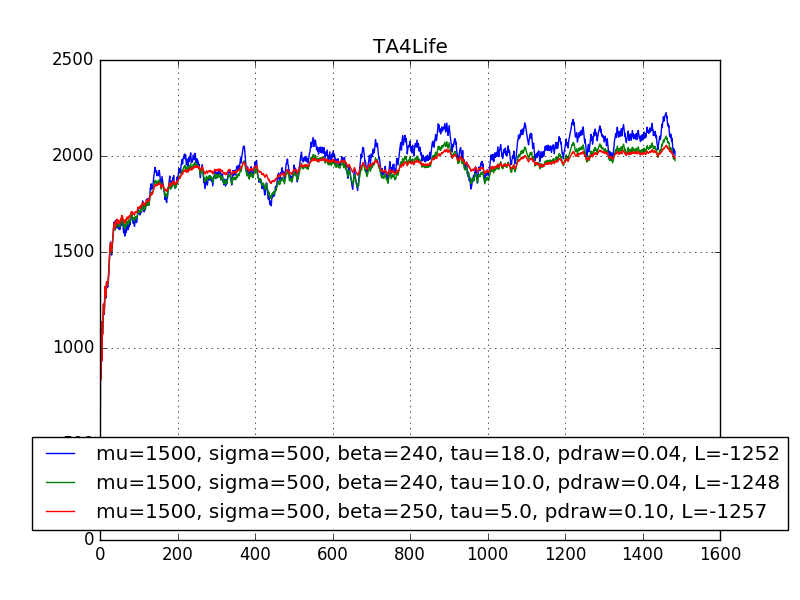
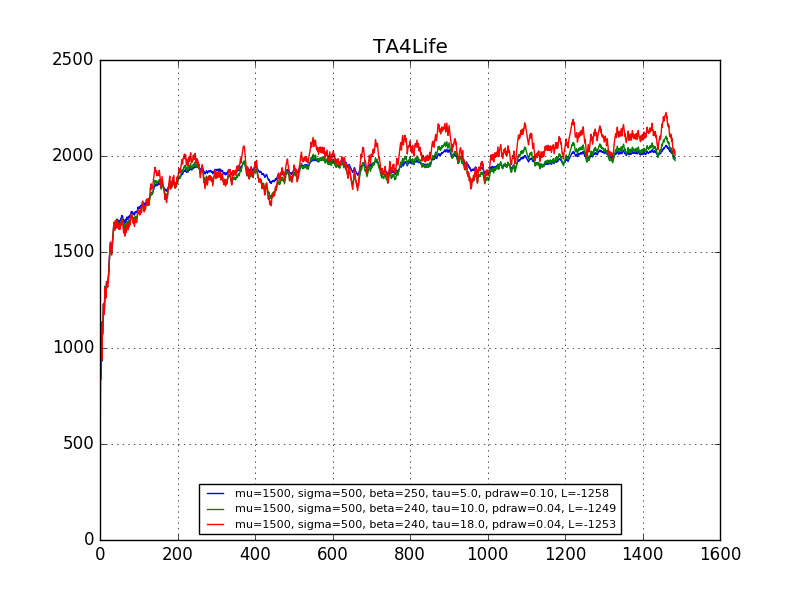
Add plots to exmine distribution of predicted probability of outcome

Changed region(s): [[0.0312, 0.72, 1.0, 0.9], [0.1875, 0.18, 0.8438, 0.33], [0.125, 0.33, 0.1875, 0.39]]

diff --git a/plot_progression.py b/plot_progression.py
@@ -3,6 +3,7 @@ import pytrueskill as ts
 import numpy as np
 import matplotlib.pyplot as plt
 import csv
+import scipy.stats
 
 replays = load_replays('data/replaydumper/replays.csv')
 nplayers = 1 + max(np.max(replays.playerid1), np.max(replays.playerid2))
@@ -17,37 +18,81 @@ with open('data/replaydumper/uniquePlayerIds.csv') as fp:
     for row in csvreader:
         playerAliases[int(row[0])] = row
 
+nPlayersExamine = 5
+figs_progression = [ plt.subplots() for n in range(nPlayersExamine) ]
+fig_filenames = { }
+probabilities = [ [] for n in range(nPlayersExamine) ]
+all_probabilities = []
+aliases = [None for n in range(nPlayersExamine)]
+environments = ( np.array([1500., 500., 250., 5., 0.1]),
+                 np.array([1500., 500., 240., 10., 0.045]),
+                 np.array([1500., 500., 240., 18., 0.045]) )
 
-figs = [ plt.subplots() for n in range(5) ]
-fig_filenames = {  }
-for env in ( np.array([1500., 500., 240., 18., 0.045]),
-             np.array([1500., 500., 240., 10., 0.045]),
-             np.array([1500., 500., 250., 5., 0.1]) ):
+for nenv,env in enumerate(environments):
 
     ratings[:,0] = env[0]
     ratings[:,1] = env[1]
     r1,r2,nGames1,nGames2,L = ts.rate_1vs1(env,pids1,pids2,scores12,ratings)
+    all_probabilities += [L]
 
     finalGameCount = np.zeros(nplayers,dtype=np.int)
     finalGameCount[pids1] = nGames1
     iSorNGames = np.argsort(finalGameCount)[::-1]
-    for (f,ax),PID in zip(figs,iSorNGames):
+    for nplayer,((f1,ax1),PID) in enumerate(zip(figs_progression,iSorNGames)):
         idx1 = pids1==PID
         idx2 = pids2==PID
-        alias = ','.join(playerAliases[PID][1:])
+        aliases[nplayer] = ','.join(playerAliases[PID][1:])
 
         mu = idx1*r1[:,0] + idx2*r2[:,0]
         sigma = idx1*r1[:,1] + idx2*r2[:,1]
         mu = mu[idx1 | idx2]
         sigma = sigma[idx1 | idx2]
         l = L[idx1 | idx2]
+        probabilities[nplayer] += [l]
 
-        ax.plot(np.arange(len(mu)),mu-3*sigma,label='mu=%d, sigma=%d, beta=%d, tau=%.1f, pdraw=%.2f, L=%d' % tuple([x for x in env] + [np.sum(np.log(l))]))
-        ax.set_title(alias)
-        ax.legend(loc='lower center')
-        ax.grid(True)
-        fig_filenames[f] = 'rating_progression_%s.png' % (alias)
+        label = 'mu=%d, sigma=%d, beta=%d, tau=%.1f, pdraw=%.2f, L=%d' % tuple([x for x in env] + [np.sum(np.log(l))])
+        ax1.plot(np.arange(len(mu)),mu-3*sigma,label=label)
+        ax1.set_title(aliases[nplayer])
+        ax1.legend(loc='lower center', prop={'size':8})
+        ax1.grid(True)
+        fig_filenames[f1] = 'rating_progression_%s.png' % (aliases[nplayer])
 
-for f,ax in figs:
+for f,ax in figs_progression:
     f.savefig(fig_filenames[f])
     plt.close(f)
+
+for nplayer,(l,alias) in enumerate(zip(probabilities,aliases)):
+    getlabel = lambda n: 'mu=%d, sigma=%d, beta=%d, tau=%.1f, pdraw=%.2f, L=%d' % tuple([x for x in environments[n]] + [np.sum(np.log(l[n]))])
+
+    logL = np.array(l).T
+    fig,ax = plt.subplots()
+    for n in range(len(environments)):
+        ax.plot(np.sort(logL[:,0]), np.sort(logL[:,n]), '-', linewidth=1, label=getlabel(n))
+    ax.set_xlabel('quantile')
+    ax.set_ylabel('quantile')
+    ax.set_title('QQ plots, predicted probability of outcome, %s' % (alias))
+    ax.legend(loc='lower right', prop={'size':8})
+
+    fig.savefig('QQ_predicted_probability_of_outcome_%s.png' % (alias))
+    plt.close(fig)
+
+fig,ax = plt.subplots()
+l = np.array(all_probabilities).T
+logl = np.log(all_probabilities).T
+labels = [ 'mu=%d, sigma=%d, beta=%d, tau=%.1f, pdraw=%.2f, L=%d' % tuple([x for x in env] + [np.sum(logl[:,n])]) for n,env in enumerate(environments) ]
+for n,env in enumerate(environments):
+    ax.plot(np.sort(l[:,0]), np.sort(l[:,n]), '-', linewidth=1, label=labels[n])
+ax.set_xlabel('quantile')
+ax.set_ylabel('quantile')
+ax.set_title('QQ plots, predicted probability of outcome')
+ax.legend(loc='lower right', prop={'size':8})
+fig.savefig('QQ_predicted_probability_of_outcome.png')
+plt.close(fig)
+
+fig,ax = plt.subplots()
+ax.hist(l,bins=100,histtype='step',label=labels)
+ax.set_xlabel('predicted probability of outcome')
+ax.set_ylabel('frequency')
+ax.legend(loc='lower center',prop={'size':8})
+fig.savefig('distribution_predicted_probability_of_outcome.png')
+plt.close(fig)
